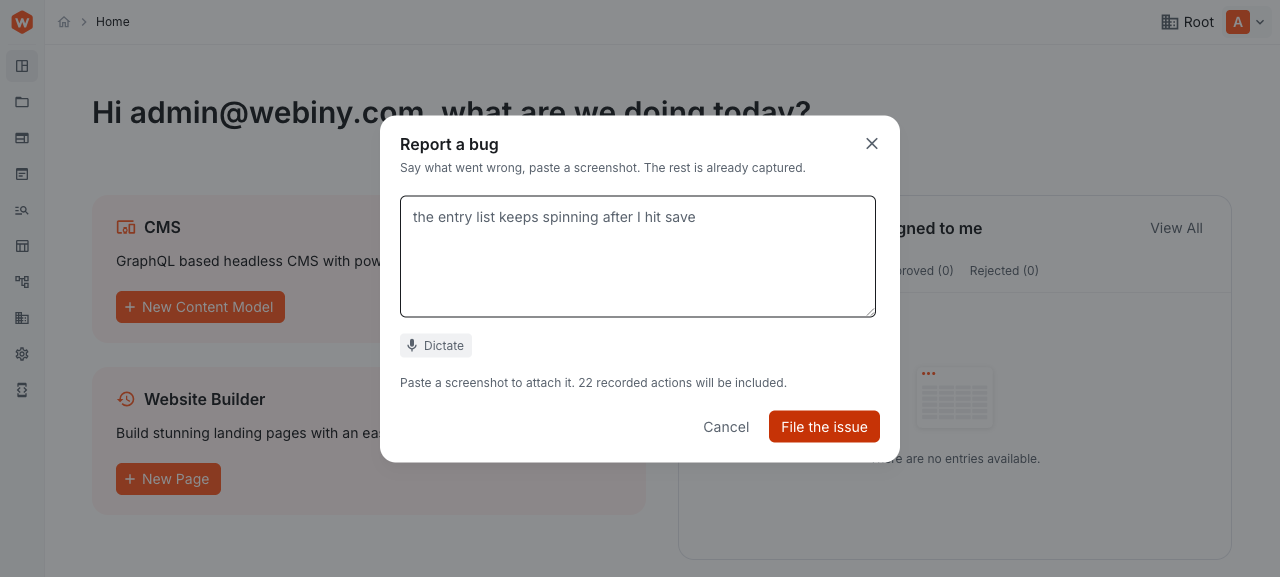
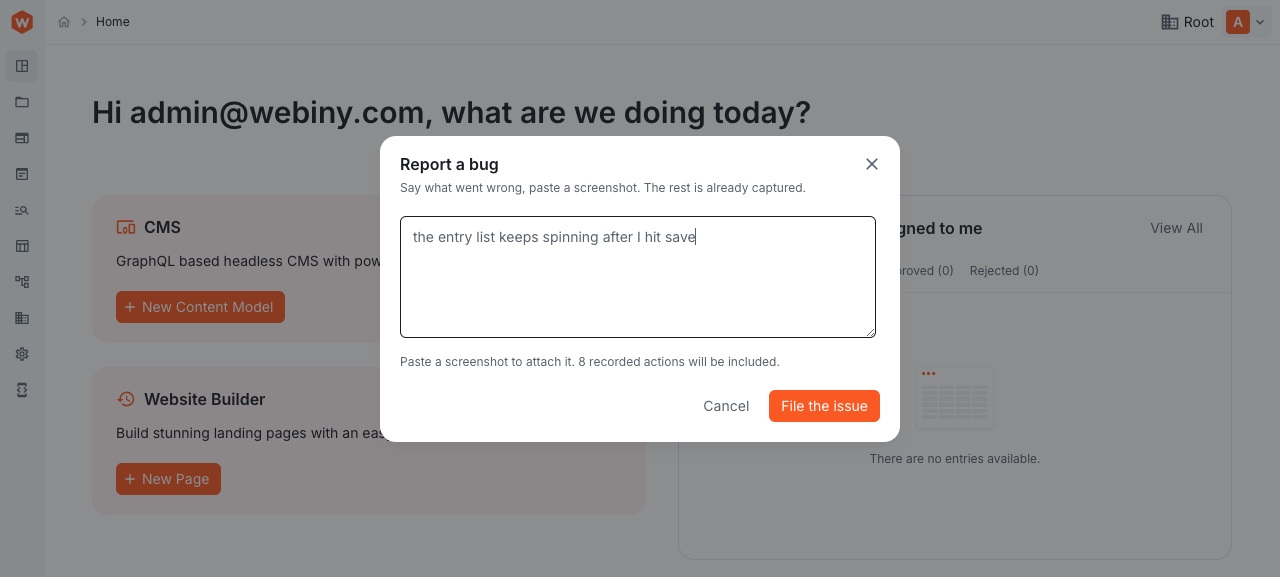
refactor(bug-reporter): remove dictation for now
Deletes admin/speech along with the Dictate button, the mic icons, and
`listening` / `dictationSupported` / `toggleDictation` from the view model
and presenter. The presenter loses a constructor dependency and four
private methods with it.

It was never verified: a headless browser has no microphone, and the Web
Speech API is Chrome and Safari only, so it shipped as a button nobody had
watched work.

Retakes the two dialog screenshots, which showed the button.

Changed region(s): [[0.2812, 0.5303, 0.7188, 0.8111], [0.2812, 0.1872, 0.7188, 0.3432], [0.3125, 0.3744, 0.5625, 0.4367]]

diff --git a/packages/bug-reporter/src/admin/presentation/report/ReportBugPresenter.ts b/packages/bug-reporter/src/admin/presentation/report/ReportBugPresenter.ts
@@ -3,7 +3,6 @@ import { ActionRecorder } from "../../recording/abstractions.js";
 import type { IRecordedEvent } from "../../recording/abstractions.js";
 import { collectEnvironment } from "../../capture/collectEnvironment.js";
 import { SubmitBugReportGateway } from "../../gateway/abstractions.js";
-import { SpeechDictation } from "../../speech/abstractions.js";
 import { ReportBugPresenter as Abstraction } from "./abstractions.js";
 import type { IReportBugOutcomeVm } from "./abstractions.js";
 import type { IReportBugViewModel } from "./abstractions.js";
@@ -40,7 +39,6 @@ function parseDataUrl(dataUrl: string): IReportedScreenshot | null {
 class ReportBugPresenterImpl implements Abstraction.Interface {
     private isOpen = false;
     private description = "";
-    private listening = false;
     private screenshots: string[] = [];
     private events: IRecordedEvent[] = [];
     private environment: IReportedEnvironment | null = null;
@@ -53,17 +51,12 @@ class ReportBugPresenterImpl implements Abstraction.Interface {
 
     constructor(
         private recorder: ActionRecorder.Interface,
-        private gateway: SubmitBugReportGateway.Interface,
-        private dictation: SpeechDictation.Interface
+        private gateway: SubmitBugReportGateway.Interface
     ) {
         // `controller` is machinery, not state anything renders, so it stays out of the map.
-        makeAutoObservable<
-            ReportBugPresenterImpl,
-            "recorder" | "gateway" | "dictation" | "controller"
-        >(this, {
+        makeAutoObservable<ReportBugPresenterImpl, "recorder" | "gateway" | "controller">(this, {
             recorder: false,
             gateway: false,
-            dictation: false,
             controller: false
         });
     }
@@ -72,8 +65,6 @@ class ReportBugPresenterImpl implements Abstraction.Interface {
         return {
             open: this.isOpen,
             description: this.description,
-            listening: this.listening,
-            dictationSupported: this.dictation.supported,
             screenshots: this.screenshots,
             recordedEventCount: this.events.length,
             busy: this.status !== null,
@@ -92,26 +83,12 @@ class ReportBugPresenterImpl implements Abstraction.Interface {
     }
 
     close(): void {
-        this.stopDictation();
         this.abort();
         this.isOpen = false;
     }
 
     describe(description: string): void {
         this.description = description;
-    }
-
-    toggleDictation(): void {
-        if (this.listening) {
-            this.stopDictation();
-            return;
-        }
-
-        this.listening = true;
-        this.dictation.start(
-            text => this.appendDictated(text),
-            () => this.markNotListening()
-        );
     }
 
     attachScreenshot(dataUrl: string): void {
@@ -127,7 +104,6 @@ class ReportBugPresenterImpl implements Abstraction.Interface {
             return;
         }
 
-        this.stopDictation();
         this.beginSubmission();
 
         const screenshots: IReportedScreenshot[] = [];
@@ -266,26 +242,9 @@ class ReportBugPresenterImpl implements Abstraction.Interface {
         this.status = null;
         this.error = message;
     }
-
-    private appendDictated(text: string): void {
-        if (this.description === "") {
-            this.description = text;
-            return;
-        }
-        this.description = `${this.description} ${text}`;
-    }
-
-    private markNotListening(): void {
-        this.listening = false;
-    }
-
-    private stopDictation(): void {
-        this.dictation.stop();
-        this.listening = false;
-    }
 }
 
 export const ReportBugPresenter = Abstraction.createImplementation({
     implementation: ReportBugPresenterImpl,
-    dependencies: [ActionRecorder, SubmitBugReportGateway, SpeechDictation]
+    dependencies: [ActionRecorder, SubmitBugReportGateway]
 });

diff --git a/packages/bug-reporter/src/admin/presentation/report/ReportBugDialog.tsx b/packages/bug-reporter/src/admin/presentation/report/ReportBugDialog.tsx
@@ -7,8 +7,6 @@ import { Dialog } from "@webiny/admin-ui";
 import { IconButton } from "@webiny/admin-ui";
 import { Text } from "@webiny/admin-ui";
 import { Textarea } from "@webiny/admin-ui";
-import { ReactComponent as MicIcon } from "@webiny/icons/mic.svg";
-import { ReactComponent as MicOffIcon } from "@webiny/icons/mic_off.svg";
 import { ReactComponent as CloseIcon } from "@webiny/icons/close.svg";
 import { readPastedImage } from "../../capture/readPastedImage.js";
 import { BugReportFeature } from "../../feature.js";
@@ -48,9 +46,6 @@ export const ReportBugDialog = createReactiveComponent(function ReportBugDialog(
     if (vm.outcome) {
         return <OutcomeDialog outcome={vm.outcome} open={vm.open} onClose={() => report.close()} />;
     }
-
-    const micLabel = vm.listening ? "Stop dictating" : "Dictate";
-    const micIcon = vm.listening ? <MicOffIcon /> : <MicIcon />;
 
     return (
         <Dialog
@@ -99,18 +94,6 @@ export const ReportBugDialog = createReactiveComponent(function ReportBugDialog(
                     value={vm.description}
                     onChange={(value: string) => report.describe(value)}
                 />
-
-                {vm.dictationSupported ? (
-                    <div>
-                        <Button
-                            variant={"secondary"}
-                            size={"sm"}
-                            icon={micIcon}
-                            text={micLabel}
-                            onClick={() => report.toggleDictation()}
-                        />
-                    </div>
-                ) : null}
 
                 {vm.screenshots.length > 0 ? (
                     <div className={"flex flex-wrap gap-sm"}>

diff --git a/packages/bug-reporter/src/admin/feature.ts b/packages/bug-reporter/src/admin/feature.ts
@@ -2,7 +2,6 @@ import { createFeature } from "@webiny/feature/admin";
 import { ActionRecorder as ActionRecorderAbstraction } from "./recording/abstractions.js";
 import { ActionRecorder } from "./recording/ActionRecorder.js";
 import { SubmitBugReportGateway } from "./gateway/SubmitBugReportGateway.js";
-import { SpeechDictation } from "./speech/SpeechDictation.js";
 import { ReportBugPresenter as ReportBugPresenterAbstraction } from "./presentation/report/abstractions.js";
 import { ReportBugPresenter } from "./presentation/report/ReportBugPresenter.js";
 import { ReportBugCommand } from "./commands/ReportBugCommand.js";
@@ -12,7 +11,6 @@ export const BugReportFeature = createFeature({
     register(container) {
         // Singletons: the recorder's buffer and the dialog state both have to outlive renders.
         container.register(ActionRecorder).inSingletonScope();
-        container.register(SpeechDictation).inSingletonScope();
         container.register(ReportBugPresenter).inSingletonScope();
 
         container.register(SubmitBugReportGateway);

diff --git a/packages/bug-reporter/src/admin/presentation/report/abstractions.ts b/packages/bug-reporter/src/admin/presentation/report/abstractions.ts
@@ -12,8 +12,6 @@ export interface IReportBugOutcomeVm {
 export interface IReportBugViewModel {
     open: boolean;
     description: string;
-    listening: boolean;
-    dictationSupported: boolean;
     /* Data URLs, ready to render, in the order they were pasted. */
     screenshots: string[];
     recordedEventCount: number;
@@ -31,7 +29,6 @@ export interface IReportBugPresenter {
     open(): void;
     close(): void;
     describe(description: string): void;
-    toggleDictation(): void;
     attachScreenshot(dataUrl: string): void;
     removeScreenshot(index: number): void;
     submit(): Promise<void>;
